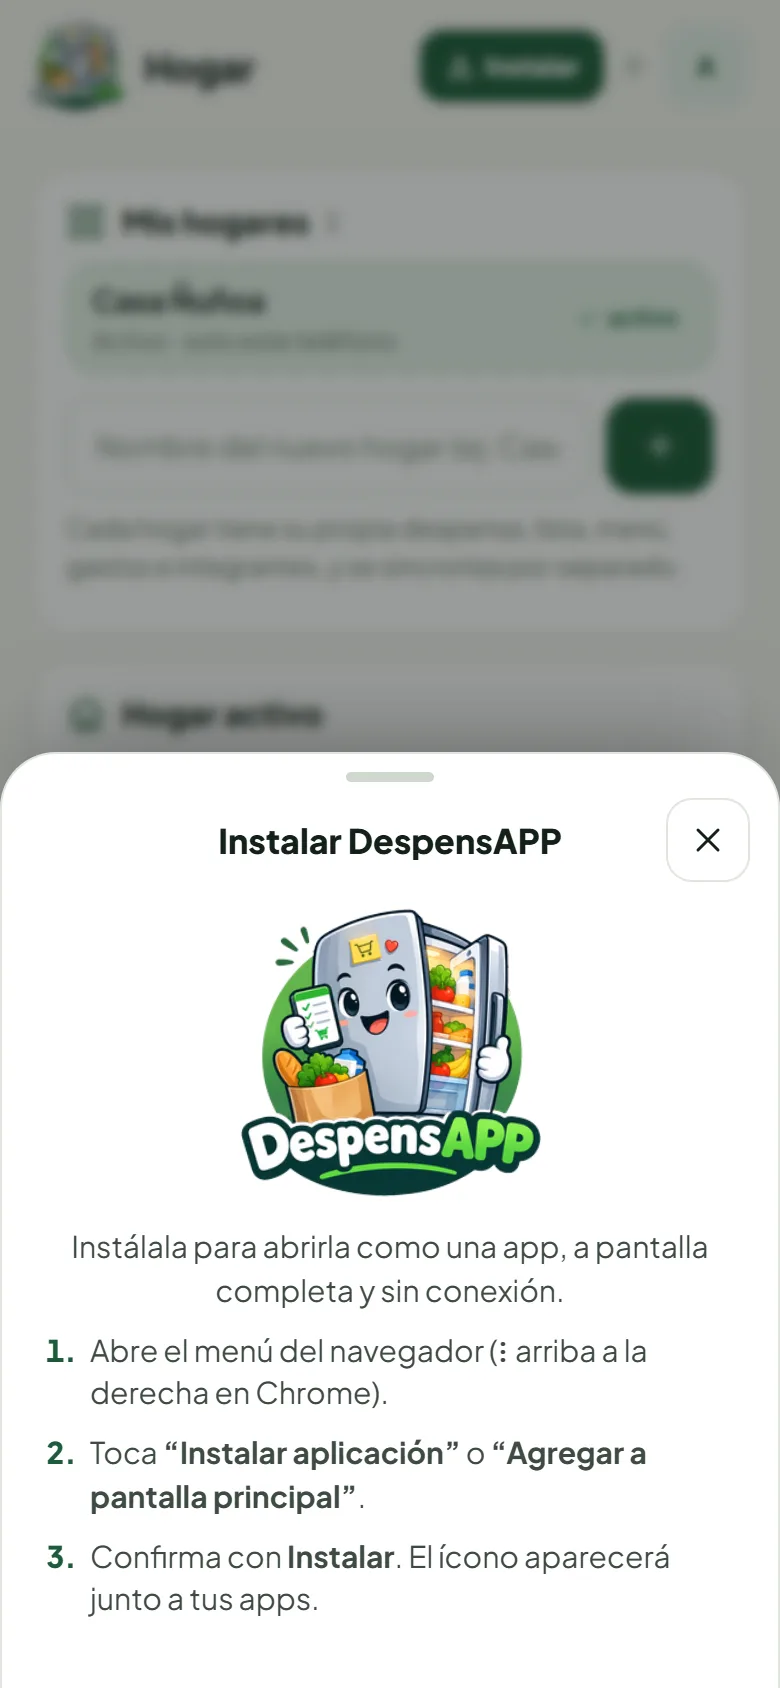
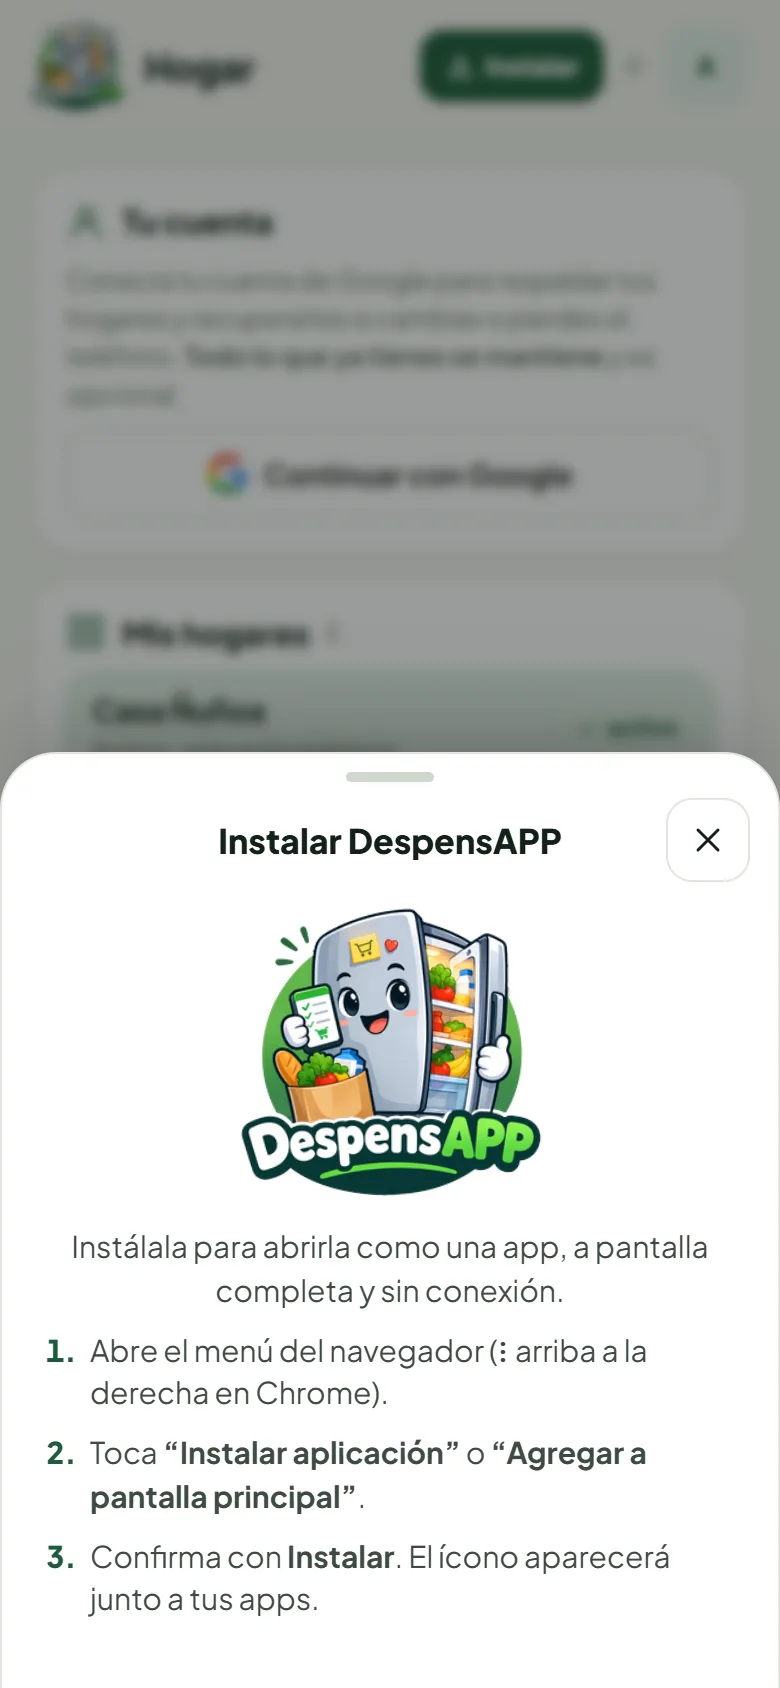
v2.2.0: cuenta de Google opcional con respaldo y recuperación
- Botón "Continuar con Google" en Hogar y "Entra con Google" en la bienvenida
- La sesión anónima se vincula a Google (mismo usuario): no se pierde nada
- Respaldo automático por hogar y recuperación en teléfono nuevo, combinando sin borrar
- Manual: sección "Cuenta de Google y respaldo", 2 capturas y preguntas frecuentes

diff --git a/manual/index.html b/manual/index.html
@@ -67,16 +67,16 @@
     <h1>Manual de uso</h1>
     <p>Todo lo que necesitas para controlar la despensa, comprar sin salirte del presupuesto, planificar el menú y llevar las cuentas claras del hogar.</p>
     <div class="meta">
-      <span class="tag">Versión 2.1.2</span>
+      <span class="tag">Versión 2.2.0</span>
       <span class="tag">Actualizado: 1 de noviembre de 2026</span>
-      <span class="tag">37 pantallas</span>
+      <span class="tag">39 pantallas</span>
     </div><br>
     <a class="cta" href="../">Abrir DespensAPP →</a>
   </header>
 
   <nav class="toc"><div class="wrap">
     <a href="#instalar">Instalar</a><a href="#inicio">Primeros pasos</a><a href="#despensa">Despensa</a><a href="#lista">Lista y Súper</a>
-    <a href="#menu">Menú y recetas</a><a href="#salud">Dietas y salud</a><a href="#plata">Gastos</a><a href="#digitales">Boletas digitales</a><a href="#separadas">Cuentas separadas</a><a href="#ia">Funciones con IA</a><a href="#hogar">Hogares</a><a href="#apariencia">Apariencia</a><a href="#faq">Preguntas</a><a href="#cambios">Novedades</a>
+    <a href="#menu">Menú y recetas</a><a href="#salud">Dietas y salud</a><a href="#plata">Gastos</a><a href="#digitales">Boletas digitales</a><a href="#separadas">Cuentas separadas</a><a href="#ia">Funciones con IA</a><a href="#cuenta">Cuenta de Google</a><a href="#hogar">Hogares</a><a href="#apariencia">Apariencia</a><a href="#faq">Preguntas</a><a href="#cambios">Novedades</a>
   </div></nav>
 
   <main class="wrap">
@@ -496,6 +496,36 @@
       </ul>
     </section>
 
+    <section class="ch" id="cuenta">
+      <h2><span class="n">G</span>Cuenta de Google y respaldo</h2>
+      <p class="lead">Conectar tu cuenta de Google es <b>opcional</b> y no cambia nada de lo que ya tienes: tus hogares, despensa, listas y gastos siguen en el teléfono. Lo que ganas es un <b>respaldo automático</b> para recuperarlo todo si cambias o pierdes el teléfono.</p>
+      <div class="step">
+        <div class="phone"><img src="img/38-cuenta-google.webp" alt="Conectar cuenta de Google" loading="lazy"></div>
+        <div>
+          <h3>Conectar tu cuenta</h3>
+          <ol>
+            <li>Entra a <b>Hogar</b> (botón con tu inicial, arriba a la derecha).</li>
+            <li>En <b>Tu cuenta</b>, toca <b>Continuar con Google</b> y elige tu cuenta.</li>
+            <li>Listo: la app sigue igual, con todos tus datos, y empieza a respaldarlos.</li>
+          </ol>
+          <p class="tip">Tu uso anterior de la app <b>se convierte</b> en tu cuenta de Google: no se crea un usuario nuevo ni se borra nada. Tus hogares compartidos y tus usos de IA siguen igual.</p>
+        </div>
+      </div>
+      <div class="step rev">
+        <div class="phone"><img src="img/39-cuenta-conectada.webp" alt="Cuenta conectada" loading="lazy"></div>
+        <div>
+          <h3>Respaldo y teléfono nuevo</h3>
+          <ul>
+            <li>Con la cuenta conectada, cada hogar se <b>respalda solo</b> unos segundos después de cada cambio. También puedes tocar <b>Respaldar ahora</b>.</li>
+            <li><b>Teléfono nuevo:</b> en la bienvenida toca <b>¿Ya usas DespensAPP? Entra con Google</b> y se recuperan todos tus hogares.</li>
+            <li>Si el teléfono ya tenía datos, <b>se combinan</b>: nunca se borra nada, y recuperar dos veces no duplica.</li>
+            <li><b>Salir</b> (cerrar sesión) deja todo en el teléfono; puedes volver a conectar cuando quieras.</li>
+          </ul>
+          <p class="warn">El respaldo es personal: solo tú puedes ver los hogares guardados en tu cuenta. Los hogares compartidos se siguen compartiendo con su código como siempre.</p>
+        </div>
+      </div>
+    </section>
+
     <section class="ch" id="hogar">
       <h2><span class="n">8</span>Hogares, sincronización y bitácora</h2>
       <div class="step">
@@ -556,6 +586,8 @@
     <section class="ch" id="faq">
       <h2><span class="n">?</span>Preguntas frecuentes</h2>
       <details><summary>Si dicto la lista y me equivoco, ¿qué pasa?</summary><p>La IA entiende correcciones habladas (“no, mejor…”, “olvida…”, “digo…”) y usa tu última decisión. Antes de agregar nada siempre ves la lista para corregir cantidades, quitar productos o volver al texto. Dictar no gasta usos de IA; solo cada “Convertir”.</p></details>
+      <details><summary>Si conecto Google, ¿pierdo lo que ya tenía?</summary><p>No. Tu uso anterior se convierte en tu cuenta de Google y los datos se quedan en el teléfono; además se respaldan. Si recuperas en un teléfono que ya tenía datos, todo se combina.</p></details>
+      <details><summary>¿Es obligatorio usar Google?</summary><p>No. Puedes seguir usando la app como siempre. Sin cuenta conectada tus datos solo están en tu teléfono (y en el hogar compartido, si usas uno).</p></details>
       <details><summary>¿Funciona sin internet?</summary><p>Sí. Todo se guarda en el teléfono. Si el hogar es compartido, los cambios se sincronizan al recuperar la conexión. Solo la lectura automática de boletas necesita internet.</p></details>
       <details><summary>¿Dónde quedan las fotos de las boletas?</summary><p>En el teléfono, comprimidas. En un hogar compartido también se suben para que los demás las vean.</p></details>
       <details><summary>Cambié algo y otro integrante también, ¿se pierde algo?</summary><p>No. La app combina los cambios producto por producto y gasto por gasto; si dos personas editan el mismo producto, queda el último cambio.</p></details>
@@ -565,6 +597,13 @@
 
     <section class="ch" id="cambios">
       <h2><span class="n">★</span>Novedades</h2>
+      <div class="log">
+        <h4>Versión 2.2.0 — 1 de noviembre de 2026</h4>
+        <ul>
+          <li><b>Cuenta de Google opcional</b> con respaldo automático de los hogares y recuperación en un teléfono nuevo. El uso anterior se convierte en la cuenta: no se pierde nada.</li>
+          <li>La app conserva la sesión al reabrirla (antes iniciaba una nueva cada vez).</li>
+        </ul>
+      </div>
       <div class="log">
         <h4>Versión 2.1.2 — 1 de noviembre de 2026</h4>
         <ul><li>El logo completo (sin recortes ni bordes) aparece en la barra superior, en la tarjeta de instalar y en el ícono de la pestaña.</li></ul>
@@ -640,6 +679,6 @@
     </section>
   </main>
 
-  <footer class="wrap">DespensAPP · Manual de uso v2.1.2 · <a href="../">Volver a la app</a></footer>
+  <footer class="wrap">DespensAPP · Manual de uso v2.2.0 · <a href="../">Volver a la app</a></footer>
 </body>
 </html>

diff --git a/js/views/hogar.js b/js/views/hogar.js
@@ -39,12 +39,12 @@ const HogarView = (() => {
       const u = Account.user(), last = Account.lastBackup();
       return `<section class="card">
         <div class="row-h">${u.photoURL ? `<img class="acc-photo" src="${esc(u.photoURL)}" alt="" referrerpolicy="no-referrer">` : `<span class="avatar">${esc((u.displayName || u.email || '?')[0])}</span>`}
-          <div class="grow"><b>${esc(u.displayName || 'Cuenta de Google')}</b><small class="hint" style="margin:0">${esc(u.email || '')}</small></div>
+          <div class="grow acc-id"><b>${esc(u.displayName || 'Cuenta de Google')}</b><small>${esc(u.email || '')}</small></div>
           <span class="pill ok">${ico('check')} Conectada</span></div>
         <p class="hint">${ico('cloud')} Tus hogares se respaldan solos en tu cuenta de Google. ${last ? 'Último respaldo: ' + UI.ago(last) + '.' : ''}</p>
         <div class="grid2">
           <button class="btn ghost" data-act="accBackup">${ico('upload')} Respaldar ahora</button>
-          <button class="btn ghost" data-act="accSignOut">${ico('logout')} Cerrar sesión</button>
+          <button class="btn ghost" data-act="accSignOut">${ico('logout')} Salir</button>
         </div>
       </section>`;
     }

diff --git a/sw.js b/sw.js
@@ -2,7 +2,7 @@
  * - Archivos propios (HTML/CSS/JS): Network-First → siempre la última versión, con respaldo offline.
  * - Recursos estáticos (vendor/, icons/, CDN): Cache-First.
  */
-const VERSION = 'despensapp-v2.1.3';
+const VERSION = 'despensapp-v2.2.0';
 const CORE = [
   './', './index.html', './manifest.webmanifest', './firebase-config.js', './css/app.css',
   './js/icons.js', './js/catalog.js', './js/core.js', './js/recipes.js', './js/ui.js', './js/photos.js', './js/docs.js', './js/sync.js', './js/account.js', './js/export.js', './js/ai.js',

diff --git a/css/app.css b/css/app.css
@@ -732,3 +732,5 @@ div.caution:not(.gi) { display: flex; gap: 8px; align-items: flex-start; padding
 .btn.google:active:not(:disabled) { background: #F2F2F2; }
 .g-logo { width: 20px; height: 20px; flex: none; }
 .acc-photo { width: 42px; height: 42px; border-radius: 13px; object-fit: cover; flex: none; }
+.acc-id b { display: block; font-weight: 800; }
+.acc-id small { display: block; color: var(--tx-3); font-size: 12.5px; overflow: hidden; text-overflow: ellipsis; white-space: nowrap; }

diff --git a/firebase-config.js b/firebase-config.js
@@ -20,4 +20,4 @@ window.DESPENSAPP_AI_URL = 'https://despensapp-ia.viajapp.workers.dev';
 
 /* Cuenta de Google (opcional). Activar solo cuando el proveedor Google esté habilitado en Firebase Authentication
    y despensapp.web.app esté en "Dominios autorizados". false = botones de Google ocultos. */
-window.DESPENSAPP_GOOGLE = false;
+window.DESPENSAPP_GOOGLE = true;

diff --git a/js/app.js b/js/app.js
@@ -1,6 +1,6 @@
 /* DespensAPP · Arranque, navegación y onboarding */
 const App = (() => {
-  const VERSION = '2.1.3';
+  const VERSION = '2.2.0';
   const TABS = {
     home:   { title: 'Inicio',    icon: 'home',   view: () => HomeView },
     pantry: { title: 'Despensa',  icon: 'pantry', view: () => PantryView },

diff --git a/README.md b/README.md
@@ -32,6 +32,7 @@ En una casa se compra de más, la comida vence en el refrigerador y el presupues
 - **Finanzas**: presupuesto meta, gastos con foto de boleta o **boleta digital (PDF / Word) con visor integrado** (lectura con IA), división de gastos entre integrantes, **cuentas separadas por boleta** (por productos, personas externas y aportes de varios pagadores) con sugerencias para quedar a mano, informe PDF con anexo de boletas y CSV para Excel.
 - **Hogar compartido**: sincronización en tiempo real entre teléfonos con un código o QR, avisos de actividad y bitácora. Varios hogares en el mismo teléfono.
 - **Funciones con IA** (opcionales, siempre con revisión antes de guardar): leer boletas (local, fecha, N°, total, propina y productos con nombres legibles), pasar una boleta a la despensa, inventario desde una foto del refrigerador, lista escrita o dictada y **Chef IA** con lo que está por vencer respetando dietas y salud.
+- **Cuenta de Google opcional**: la sesión anónima se vincula a Google (mismo usuario), con respaldo automático por hogar y recuperación que combina sin borrar.
 - **Diseño**: tema claro con el verde de la marca y modo oscuro opcional o automático; emojis para reconocer productos de un vistazo.
 - **PWA**: instalable, funciona sin conexión y avisa cuando hay una versión nueva.
 
@@ -88,6 +89,7 @@ Sin configurar Firebase, la app funciona completa en un solo dispositivo.
 cd tools && npm install
 node smoke.mjs        # prueba de humo de los flujos principales en Chrome (IA simulada)
 node test-worker.mjs  # prueba del intermediario de IA sin red ni cuota
+node test-account.mjs # respaldo/restauración de la cuenta con varios teléfonos simulados
 npm run shots         # regenera las capturas de manual/img
 ```
 
